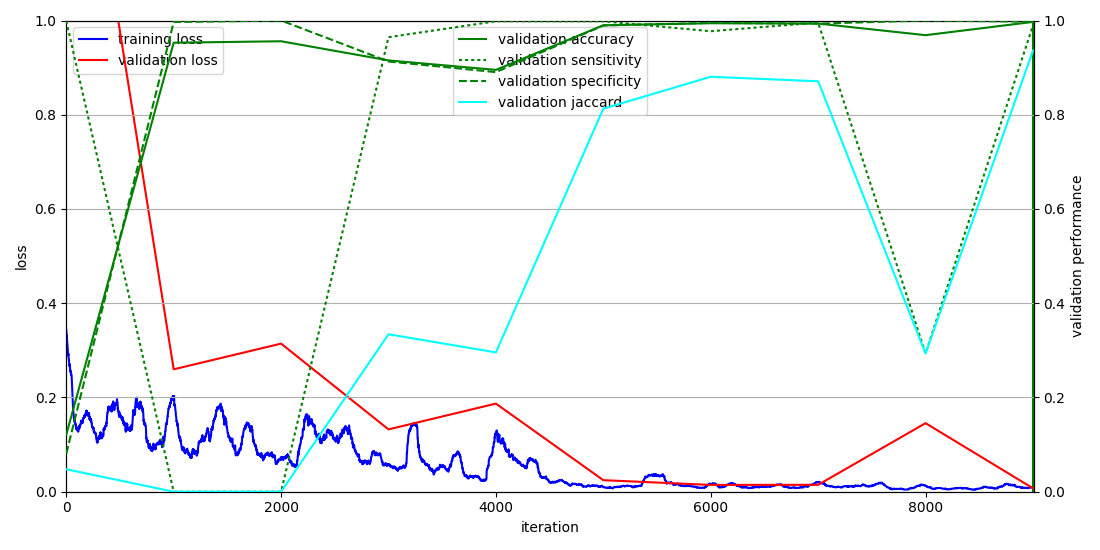
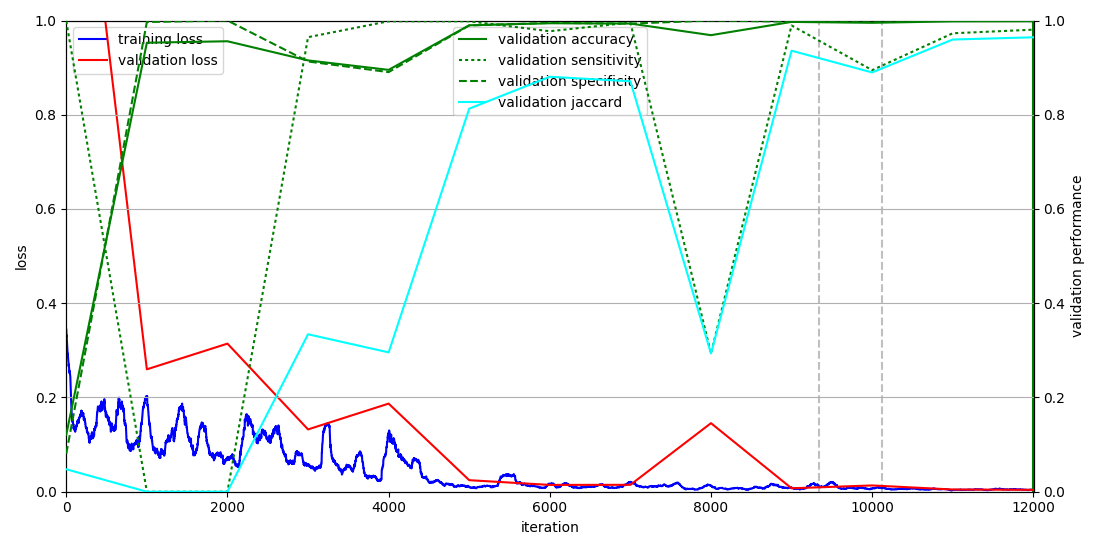
Update on 3D liver seg.

diff --git a/_drafts/3d-liver-segmentation.md b/_drafts/3d-liver-segmentation.md
@@ -36,16 +36,50 @@ The loss goes down to below 0.1, which seems fine.
 - `patch_size = (60, 60, 52)`
 - `padding = (44, 44, 44)`
 - `minibatch_size = 1`
-- `learning_rage = 5e-4`
+- `learning_rage = 5e-4` (1st session), `learning_rage = 5e-5` (2nd session), `learning_rage = 5e-6` (3rd session)
 - train only with patches containing liver
 ![3DUnet_bn_dice]({{ "/assets/3d-liver-segmentation/3DUnet_bn_pb_dice.png" | absolute_url }})
+
+#### 3D U-net + batch_norm + dice loss
+- `patch_size = (52, 52, 52)`
+- `padding = (44, 44, 44)`
+- `minibatch_size = 1`
+- `learning_rage = 5e-5`
+- train only with patches containing liver
+- dice takes **only fg** into account!
+
+First training
+![3DUnet_plainbn_dice]({{ "/assets/3d-liver-segmentation/3DUnet_plainbn_dice.png" | absolute_url }})
+![3DUnet_plainbn_dice_norm]({{ "/assets/3d-liver-segmentation/3DUnet_plainbn_dice_norm.png" | absolute_url }})
+
+Second training
+![3DUnet_plainbn_dice2]({{ "/assets/3d-liver-segmentation/3DUnet_plainbn_dice_run2.png" | absolute_url }})
+![3DUnet_plainbn_dice2_norm]({{ "/assets/3d-liver-segmentation/3DUnet_plainbn_dice_run2_norm.png" | absolute_url }})
+
+#### 3D U-net + dice loss
+- `patch_size = (52, 52, 52)`
+- `padding = (44, 44, 44)`
+- `minibatch_size = 1`
+- `learning_rage = 5e-5`
+- train only with patches containing liver
+- dice takes **bg and fg** into account!
+![3DUnet_plainbn_dicewithbg]({{ "/assets/3d-liver-segmentation/3DUnet_plainbn_dicewithbg.png" | absolute_url }})
+![3DUnet_plainbn_dicewithbg_norm]({{ "/assets/3d-liver-segmentation/3DUnet_plainbn_dicewithbg_norm.png" | absolute_url }})
+
+![3DUnet_plainbn_dicewithbg2]({{ "/assets/3d-liver-segmentation/3DUnet_plainbn_dicewithbg_run2.png" | absolute_url }})
+![3DUnet_plainbn_dicewithbg2_norm]({{ "/assets/3d-liver-segmentation/3DUnet_plainbn_dicewithbg_run2_norm.png" | absolute_url }})
 
 #### 3D U-net + batch_renorm + cce loss
 - `patch_size = (60, 60, 52)`
 - `padding = (44, 44, 44)`
 - `minibatch_size = 1`
-- `learning_rage = 5e-4`
+- `learning_rage = 5e-4` (1st session), `learning_rage = 5e-5` (2nd session)
 ![3DUnet_bn_cce]({{ "/assets/3d-liver-segmentation/3DUnet_bn_pb_cce.png" | absolute_url }})
+
+### Remarks
+- I had a problem due to Nans in summary histograms of trainable variables. I solved it by using `dice(1e-7)`. 3D U-Net, no dropout, no batch norm and dice. It could be that using batch norm would alleviate the problem.
+
+- Now there is a problem with vanishing gradients with `3D U-Net, no dropout, no batch norm and dice` and `3D U-Net, no dropout, no batch norm and cce`. Probably, you have to use batch norm to fight the vanishing gradients.
 
 ---
 #### References
